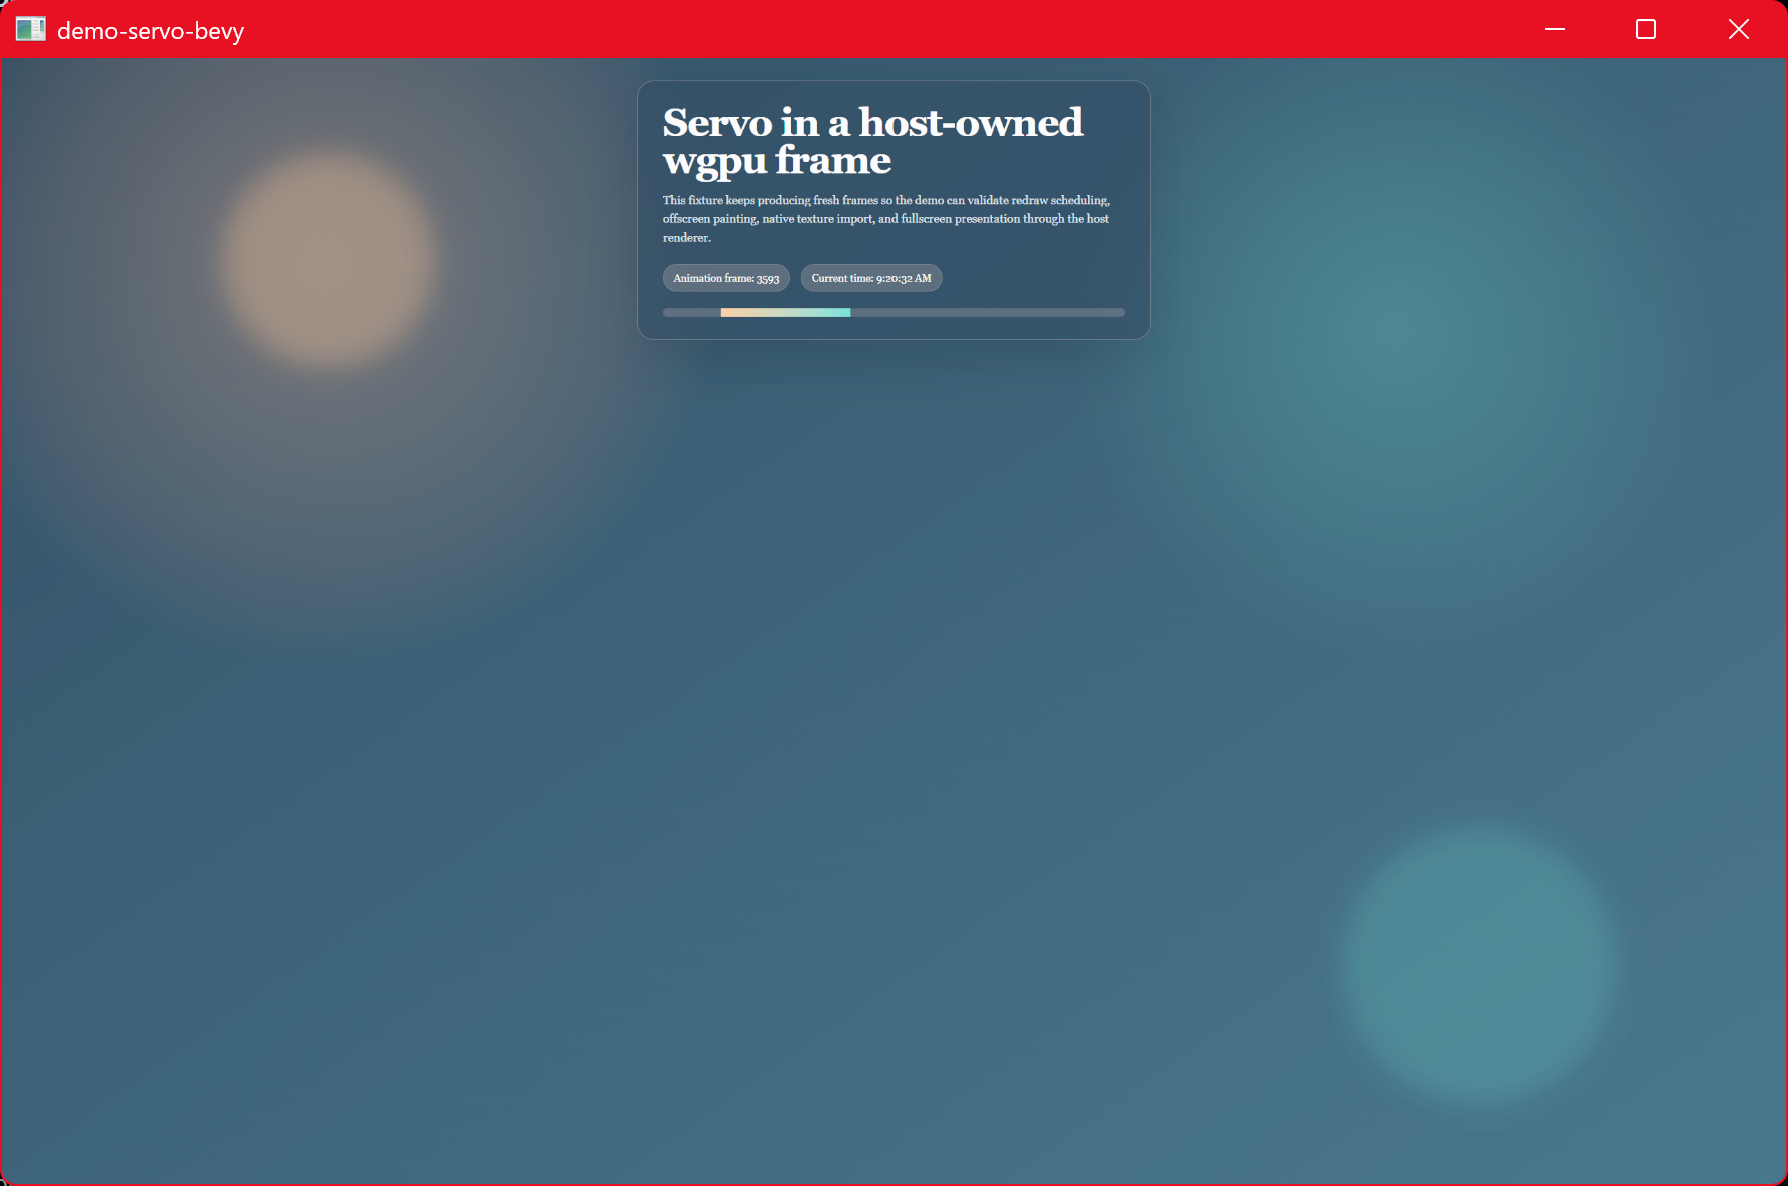
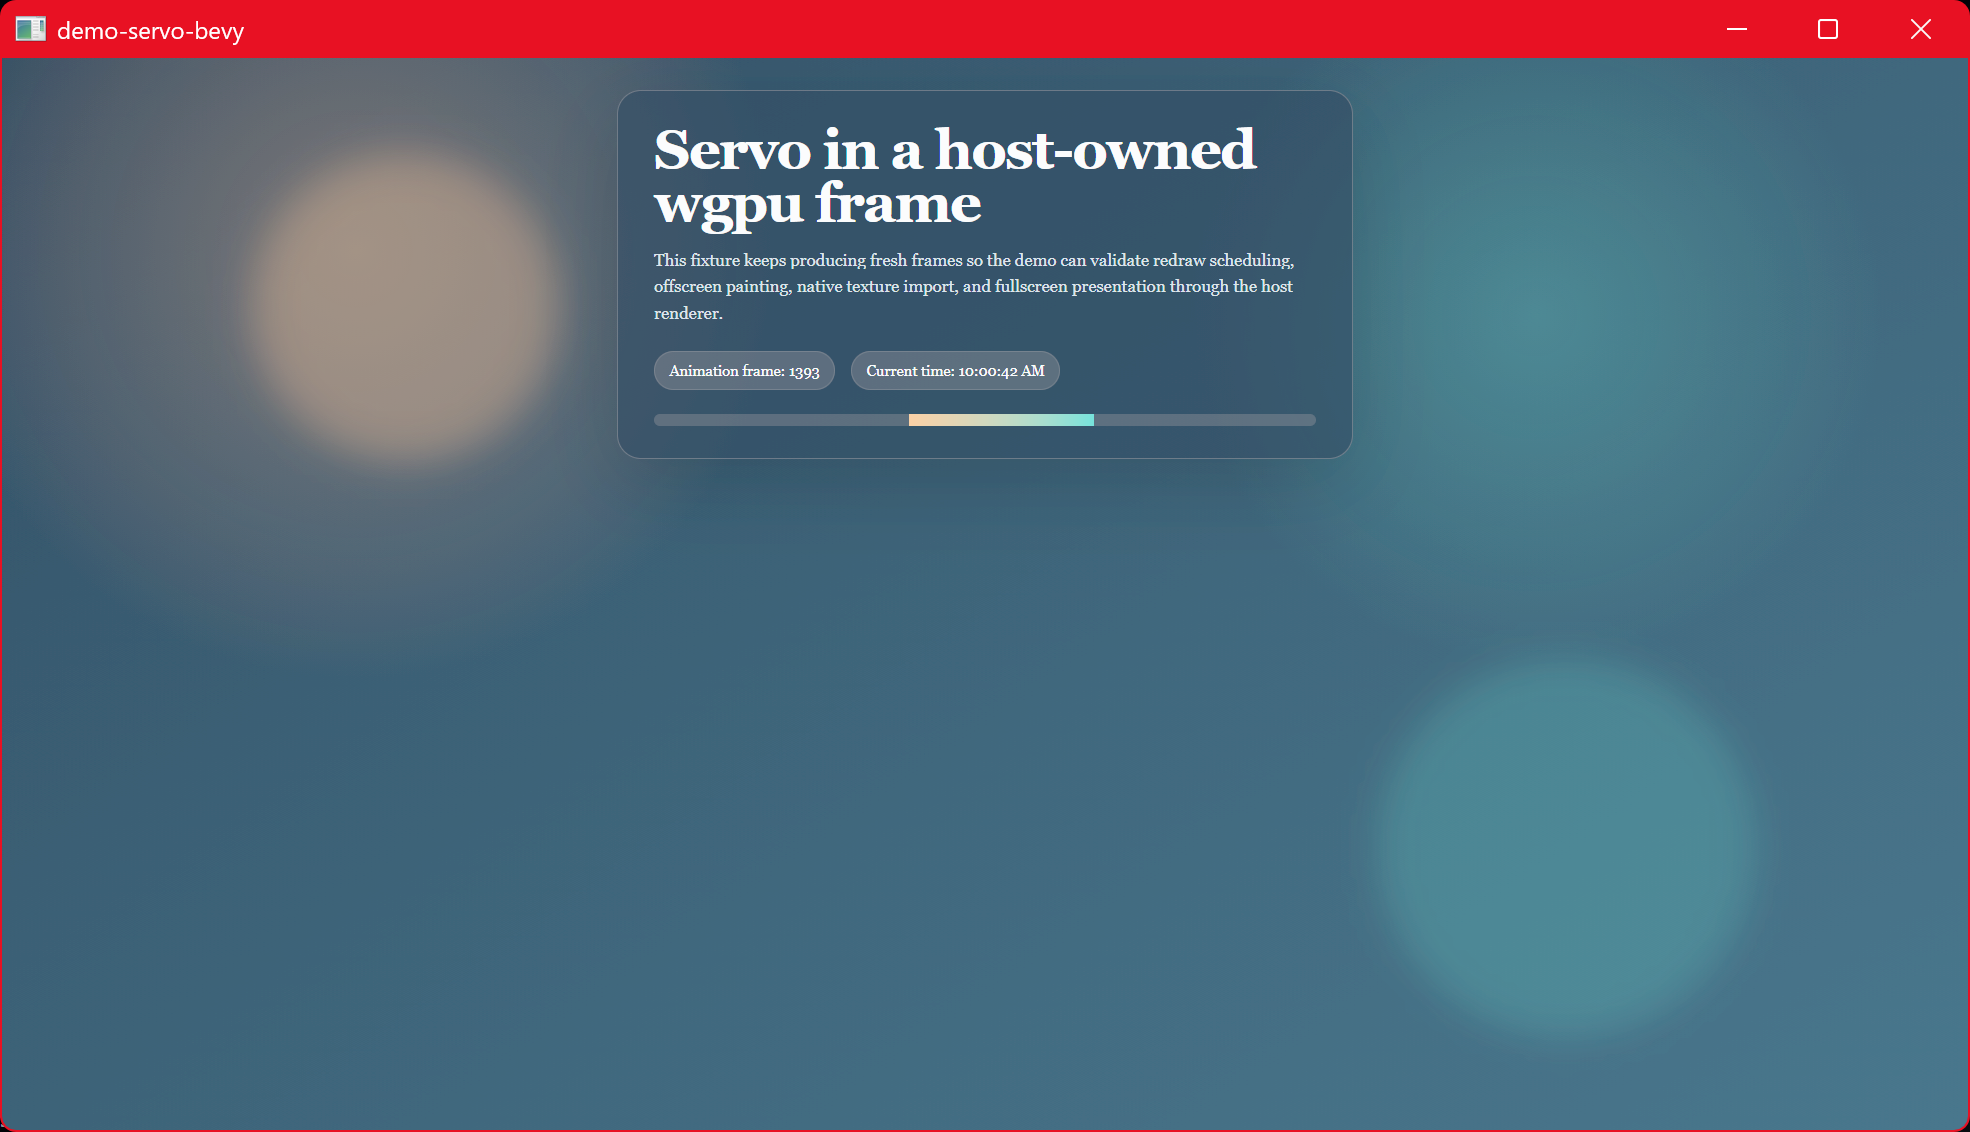
Fix Bevy resize freeze: copy import into a Bevy-owned texture
The previous Bevy demo inserted a GpuImage that *aliased* the short-lived
shared-handle import directly into RenderAssets<GpuImage>. That animated
pre-resize (the alias saw the live shared memory) but froze after resize:
bevy_sprite_render caches the sprite image bind group and only refreshes it on
an AssetEvent (render/mod.rs), and on resize the old handle's texture is freed
while the cached bind group keeps pointing at it.

Fix (idiomatic): let Bevy own the GpuImage texture (placeholder image with
COPY_DST), and each frame copy the imported alias into it. The cached bind group
then samples a stable Bevy texture. A main-world system resizes the placeholder
image to the Servo frame size, which fires AssetEvent::Modified so Bevy
re-creates the texture and refreshes the bind group on resize.

Confirmed: animates and survives resize. Screenshot updated.

diff --git a/demo-servo-bevy/src/main.rs b/demo-servo-bevy/src/main.rs
@@ -24,8 +24,7 @@ use bevy::image::Image;
 use bevy::prelude::*;
 use bevy::render::render_asset::RenderAssets;
 use bevy::render::render_resource::{
-    DefaultImageSampler, Extent3d, TextureDescriptor, TextureDimension, TextureFormat,
-    TextureUsages, TextureViewDescriptor,
+    Extent3d, TextureDimension, TextureFormat, TextureUsages,
 };
 use bevy::render::renderer::{RenderDevice, RenderQueue};
 use bevy::render::settings::{Backends, PowerPreference, RenderCreation, WgpuSettings};
@@ -118,7 +117,7 @@ fn main() {
     app.insert_non_send(servo_state)
         .init_resource::<ServoFrame>()
         .add_systems(Startup, setup)
-        .add_systems(Update, (drive_servo, fit_sprite_to_window));
+        .add_systems(Update, (drive_servo, resize_servo_image, fit_sprite_to_window));
 
     // Render world: extract the handle, then inject the imported texture.
     let render_app = app.sub_app_mut(RenderApp);
@@ -193,9 +192,11 @@ fn setup(
 ) {
     commands.spawn(Camera2d);
 
-    // Placeholder image; its GpuImage is overwritten each frame in the render
-    // world with the imported Servo texture. RENDER_WORLD only (no CPU data).
-    let placeholder = Image::new_uninit(
+    // Bevy owns this texture; the render world COPIES the imported Servo frame
+    // into it each frame (so the sprite's bind group aliases a stable Bevy
+    // texture, not the short-lived shared-handle import). RENDER_WORLD only (no
+    // CPU data); needs COPY_DST for the copy and TEXTURE_BINDING to be sampled.
+    let mut placeholder = Image::new_uninit(
         Extent3d {
             width: DEFAULT_WIDTH,
             height: DEFAULT_HEIGHT,
@@ -205,6 +206,8 @@ fn setup(
         TextureFormat::Rgba8Unorm,
         RenderAssetUsages::RENDER_WORLD,
     );
+    placeholder.texture_descriptor.usage =
+        TextureUsages::TEXTURE_BINDING | TextureUsages::COPY_DST;
     let handle = images.add(placeholder);
     commands.insert_resource(ServoImage(handle.clone()));
 
@@ -216,8 +219,8 @@ fn setup(
     commands.spawn(Sprite {
         image: handle,
         custom_size: Some(size),
-        // The imported texture is top-left origin; Bevy's 2D sprite samples with
-        // a y-up convention, so flip vertically to display the page upright.
+        // The exported Servo texture is bottom-left origin; flip vertically so
+        // the page displays upright.
         flip_y: true,
         ..default()
     });
@@ -260,6 +263,30 @@ fn drive_servo(
     }
 }
 
+/// Keep the Bevy-owned placeholder image sized to the Servo frame. Resizing the
+/// asset fires an `AssetEvent::Modified`, which makes Bevy re-create the GpuImage
+/// texture at the new size and refresh the sprite's image bind group (otherwise
+/// the cached bind group would keep pointing at the old-size texture).
+fn resize_servo_image(
+    frame: Res<ServoFrame>,
+    servo_image: Res<ServoImage>,
+    mut images: ResMut<Assets<Image>>,
+) {
+    let Some(desc) = frame.0 else {
+        return;
+    };
+    if let Some(mut image) = images.get_mut(&servo_image.0) {
+        let size = image.texture_descriptor.size;
+        if size.width != desc.width || size.height != desc.height {
+            image.texture_descriptor.size = Extent3d {
+                width: desc.width,
+                height: desc.height,
+                depth_or_array_layers: 1,
+            };
+        }
+    }
+}
+
 fn fit_sprite_to_window(
     windows: Query<&Window, With<PrimaryWindow>>,
     mut sprites: Query<&mut Sprite>,
@@ -292,12 +319,21 @@ fn inject_servo_image(
     image_id: Res<ExtractedImageId>,
     device: Res<RenderDevice>,
     render_queue: Res<RenderQueue>,
-    default_sampler: Res<DefaultImageSampler>,
-    mut images: ResMut<RenderAssets<GpuImage>>,
+    gpu_images: Res<RenderAssets<GpuImage>>,
 ) {
     let (Some(desc), Some(id)) = (frame.0, image_id.0) else {
         return;
     };
+    // Bevy's own GpuImage for the sprite. It lags a frame during resize, so only
+    // copy when its size matches the freshly imported frame.
+    let Some(gpu_image) = gpu_images.get(id) else {
+        return;
+    };
+    if gpu_image.texture_descriptor.size.width != desc.width
+        || gpu_image.texture_descriptor.size.height != desc.height
+    {
+        return;
+    }
 
     let shared = Dx12SharedTexture {
         size: PhysicalSize::new(desc.width, desc.height),
@@ -307,42 +343,34 @@ fn inject_servo_image(
         fence_value: 0,
         handle: desc.handle as *mut c_void,
     };
-    let host = HostWgpuContext::new(
-        device.wgpu_device().clone(),
-        (**render_queue.0).clone(),
-    );
-    let texture = match import_dx12_shared_texture(&shared, &host) {
+    let host = HostWgpuContext::new(device.wgpu_device().clone(), (**render_queue.0).clone());
+    let imported = match import_dx12_shared_texture(&shared, &host) {
         Ok(t) => t,
         Err(e) => {
             eprintln!("[bevy] import_dx12_shared_texture failed: {e:?}");
             return;
         }
     };
-    let texture_view = texture.create_view(&TextureViewDescriptor::default());
-    let sampler = (***default_sampler).clone();
 
-    let gpu_image = GpuImage {
-        texture: texture.into(),
-        texture_view: texture_view.into(),
-        sampler: sampler.into(),
-        texture_descriptor: TextureDescriptor {
-            label: None,
-            size: Extent3d {
-                width: desc.width,
-                height: desc.height,
-                depth_or_array_layers: 1,
-            },
-            mip_level_count: 1,
-            sample_count: 1,
-            dimension: TextureDimension::D2,
-            format: TextureFormat::Rgba8Unorm,
-            usage: TextureUsages::TEXTURE_BINDING | TextureUsages::COPY_SRC,
-            view_formats: &[],
+    // Copy the imported (short-lived) alias into Bevy's stable owned texture, so
+    // the sprite's cached bind group keeps sampling a texture that stays valid
+    // across frames and resizes.
+    let mut encoder =
+        device
+            .wgpu_device()
+            .create_command_encoder(&wgpu::CommandEncoderDescriptor {
+                label: Some("servo-bevy-copy"),
+            });
+    encoder.copy_texture_to_texture(
+        imported.as_image_copy(),
+        gpu_image.texture.as_image_copy(),
+        Extent3d {
+            width: desc.width,
+            height: desc.height,
+            depth_or_array_layers: 1,
         },
-        texture_view_descriptor: None,
-        had_data: true,
-    };
-    images.insert(id, gpu_image);
+    );
+    render_queue.submit([encoder.finish()]);
 }
 
 // ── Servo support ────────────────────────────────────────────────────────────